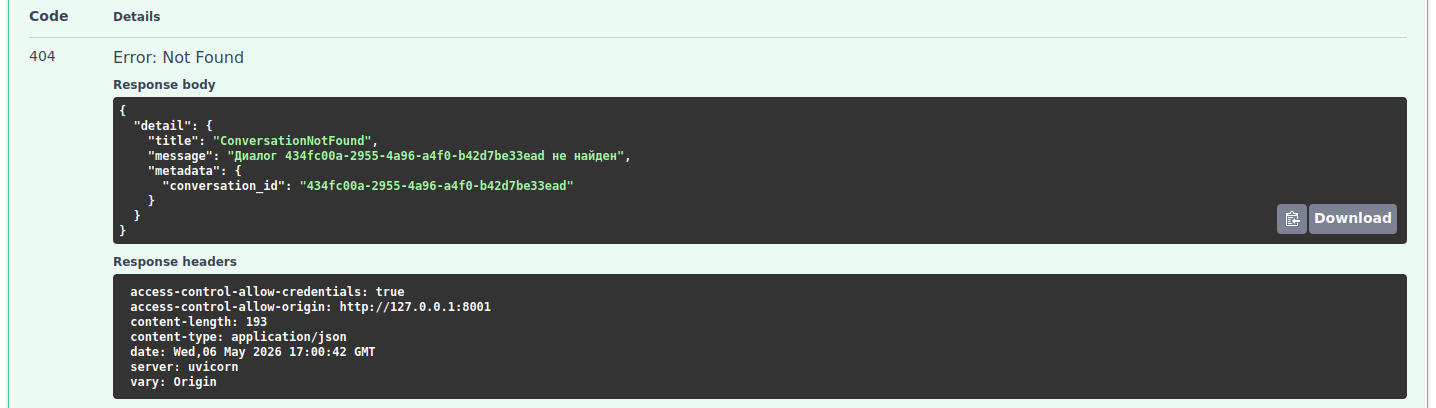
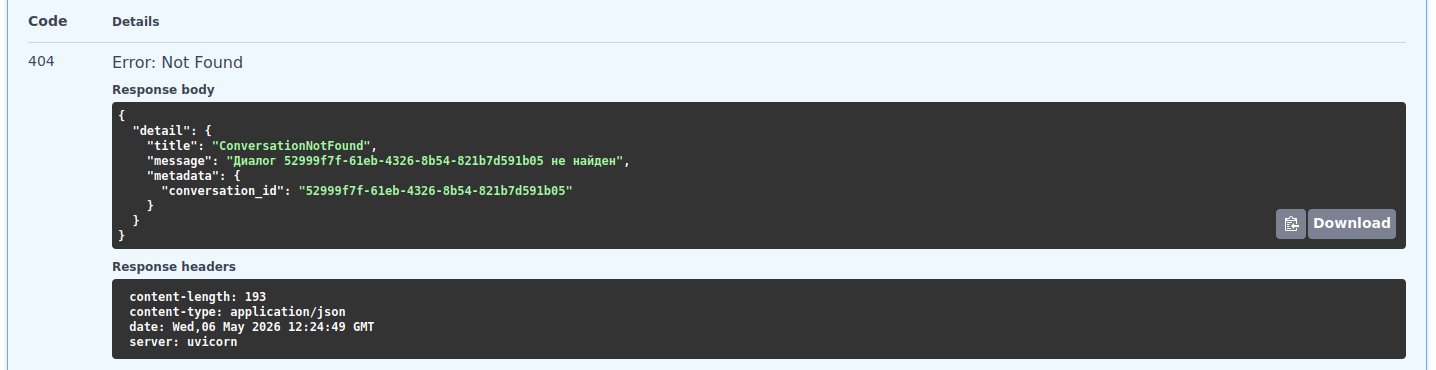
Исправление метода получения истории до определенного момента

Changed region(s): [[0.0613, 0.4757, 0.9805, 0.9811], [0.0, 0.0297, 0.9805, 0.5351]]

diff --git a/llm-chat-service/web_service/app/services/chat_client.py b/llm-chat-service/web_service/app/services/chat_client.py
@@ -279,6 +279,50 @@ class ChatAPIServiceClient(BaseClient):
             resp.raise_for_status()
             return conv_schemas.ConversationHistoryResponse(**resp.json())
 
+    @conv_error_handler(
+        errors.ConversationHistoryException,
+        "Ошибка получения истории диалога"
+    )
+    async def conversation_history_before(
+            self,
+            access_token: str,
+            conversation_id: UUID,
+            before_message_id: UUID,
+            limit: int = 20
+    ) -> conv_schemas.ConversationHistoryBeforeResponse:
+        """
+        История сообщений в диалоге до определенного сообщения.
+
+        :param access_token: Токен доступа пользователя.
+
+        :param conversation_id: Идентификатор диалога.
+
+        :param before_message_id: Идентификатор сообщения, до которого нужно
+            получить историю.
+
+        :param limit: Количество сообщений на странице.
+
+        :return: История сообщений в диалоге.
+
+        :raise AccessException: Если доступ к диалогу запрещен.
+        :raise ConversationNotFoundException: Если диалог не найден.
+        :raise ConversationHistoryException: В случае ошибки получения истории.
+        """
+        params = {
+            "conversation_id": str(conversation_id),
+            "before_message_id": str(before_message_id),
+            "limit": limit
+        }
+        async with self._get_client(access_token) as client:
+            resp = await client.post(
+                "/conversation/history",
+                params=params
+            )
+            resp.raise_for_status()
+            return conv_schemas.ConversationHistoryBeforeResponse(
+                **resp.json()
+            )
+
     async def query_llm(
             self,
             access_token: str,

diff --git a/llm-chat-service/web_service/app/api/routes_chat/routes_conversation.py b/llm-chat-service/web_service/app/api/routes_chat/routes_conversation.py
@@ -8,6 +8,7 @@ from web_service.app.api.deps.usecases import ChatUsecaseDep, StreamChatUsecaseD
 from web_service.app.core.exceptions import chat_api_client as errors
 from web_service.app.schemas.config import Settings
 from loguru import logger
+from libs.schemas.conversation import ConversationHistoryBeforeResponse
 
 router_conversation = APIRouter(prefix="/conversation")
 
@@ -265,3 +266,46 @@ async def conversation_query(
             content={"message_id": str(message_id)}
         )
     return response
+
+
+@router_conversation.get(
+    "/{conversation_id}/messages",
+    response_model=ConversationHistoryBeforeResponse,
+    include_in_schema=False
+)
+async def history_before(
+        access_token: AccessTokenDep,
+        usecase: ChatUsecaseDep,
+        conversation_id: UUID,
+        message_id: UUID,
+        limit: int = 10
+) -> ConversationHistoryBeforeResponse:
+    """
+    Получение истории сообщений до сообщения с заданным ID.
+
+    :param access_token: Access token пользователя.
+    :param usecase: Usecase для работы с диалогами.
+    :param conversation_id: Идентификатор диалога.
+    :param message_id: Идентификатор сообщения.
+    :param limit: Лимит сообщений.
+    :return: Список сообщений.
+    """
+    try:
+        return await usecase.conversation_history_before(
+            access_token, conversation_id, message_id, limit
+        )
+    except errors.AccessException as err:
+        raise HTTPException(
+            status_code=status.HTTP_403_FORBIDDEN,
+            detail=str(err)
+        )
+    except errors.ConversationNotFoundException as err:
+        raise HTTPException(
+            status_code=status.HTTP_404_NOT_FOUND,
+            detail=str(err)
+        )
+    except Exception as err:
+        raise HTTPException(
+            status_code=status.HTTP_500_INTERNAL_SERVER_ERROR,
+            detail=str(err)
+        )

diff --git a/llm-chat-service/web_service/app/usecases/chat.py b/llm-chat-service/web_service/app/usecases/chat.py
@@ -86,6 +86,38 @@ class ChatUsecase:
         total_page = ceil(response.pagination.total / limit)
         return response.messages, total_page, response.pagination.total
 
+    async def conversation_history_before(
+            self,
+            access_token: str,
+            conversation_id: UUID,
+            before_message_id: UUID,
+            limit: int
+    ) -> schemas.ConversationHistoryBeforeResponse:
+        """
+        Получение истории диалога.
+
+        :param access_token: Access token пользователя.
+
+        :param conversation_id: ID диалога.
+
+        :param before_message_id: ID сообщения, до которого нужно получить
+            историю.
+
+        :param limit: Количество сообщений на странице.
+
+        :return: Ответ от сервиса chat_api.
+
+        :raise AccessException: Если доступ к диалогу запрещен.
+        :raise ConversationNotFoundException: Если диалог не найден.
+        :raise ConversationHistoryException: В случае ошибки получения истории.
+        """
+        return await self._chat_api_client.conversation_history_before(
+            access_token=access_token,
+            conversation_id=conversation_id,
+            before_message_id=before_message_id,
+            limit=limit
+        )
+
     async def send_message(
             self,
             access_token: str,

diff --git a/llm-chat-service/chat_api_service/app/api/routes_conversation.py b/llm-chat-service/chat_api_service/app/api/routes_conversation.py
@@ -133,7 +133,7 @@ async def get_history(
     return history
 
 
-@router_conversation.post(
+@router_conversation.get(
     "/history/before",
     response_model=conversation.ConversationHistoryBeforeResponse,
     summary="История сообщений в диалоге",

diff --git a/llm-chat-service/chat_api_service/docs/conversation_history_before/README.md b/llm-chat-service/chat_api_service/docs/conversation_history_before/README.md
@@ -4,7 +4,7 @@
 
 ## Request
 
-**URL** `POST /conversation/history`
+**URL** `GET /conversation/history`
 
 **Headers**:
 
@@ -24,11 +24,10 @@
 
 **CURL**
 ```shell
-curl -X 'POST' \
+curl -X 'GET' \
   'http://127.0.0.1:8001/conversation/history/before?conversation_id=434fc00a-2955-4a96-a4f9-b42d7be33ead&before_message_id=c45e6da0-9a0f-4501-8c99-418632920ee5&limit=10' \
   -H 'accept: application/json' \
-  -H 'Authorization: Bearer eyJhbGciOiJIUzI1NiIsInR5cCI6IkpXVCJ9.eyJzdWIiOiIxIiwiZXhwIjoxNzc4MDg3NTgwLCJpYXQiOjE3NzgwODY2ODAsInR5cGUiOiJhY2Nlc3MiLCJyb2xlIjoiYWRtaW4ifQ.IYikQ5xxF0pBbPOZHc72w82LZzV1a2hgInTQF9-BM1U' \
-  -d ''
+  -H 'Authorization: Bearer eyJhbGciOiJIUzI1NiIsInR5cCI6IkpXVCJ9.eyJzdWIiOiIxIiwiZXhwIjoxNzc4MDg5MzI1LCJpYXQiOjE3NzgwODg0MjUsInR5cGUiOiJhY2Nlc3MiLCJyb2xlIjoiYWRtaW4ifQ.iuTuDL6EIWWL5GoV1JxnKL4SFYZp-56Q9U9JCt44xB4'
 ```
 
 ## Response
